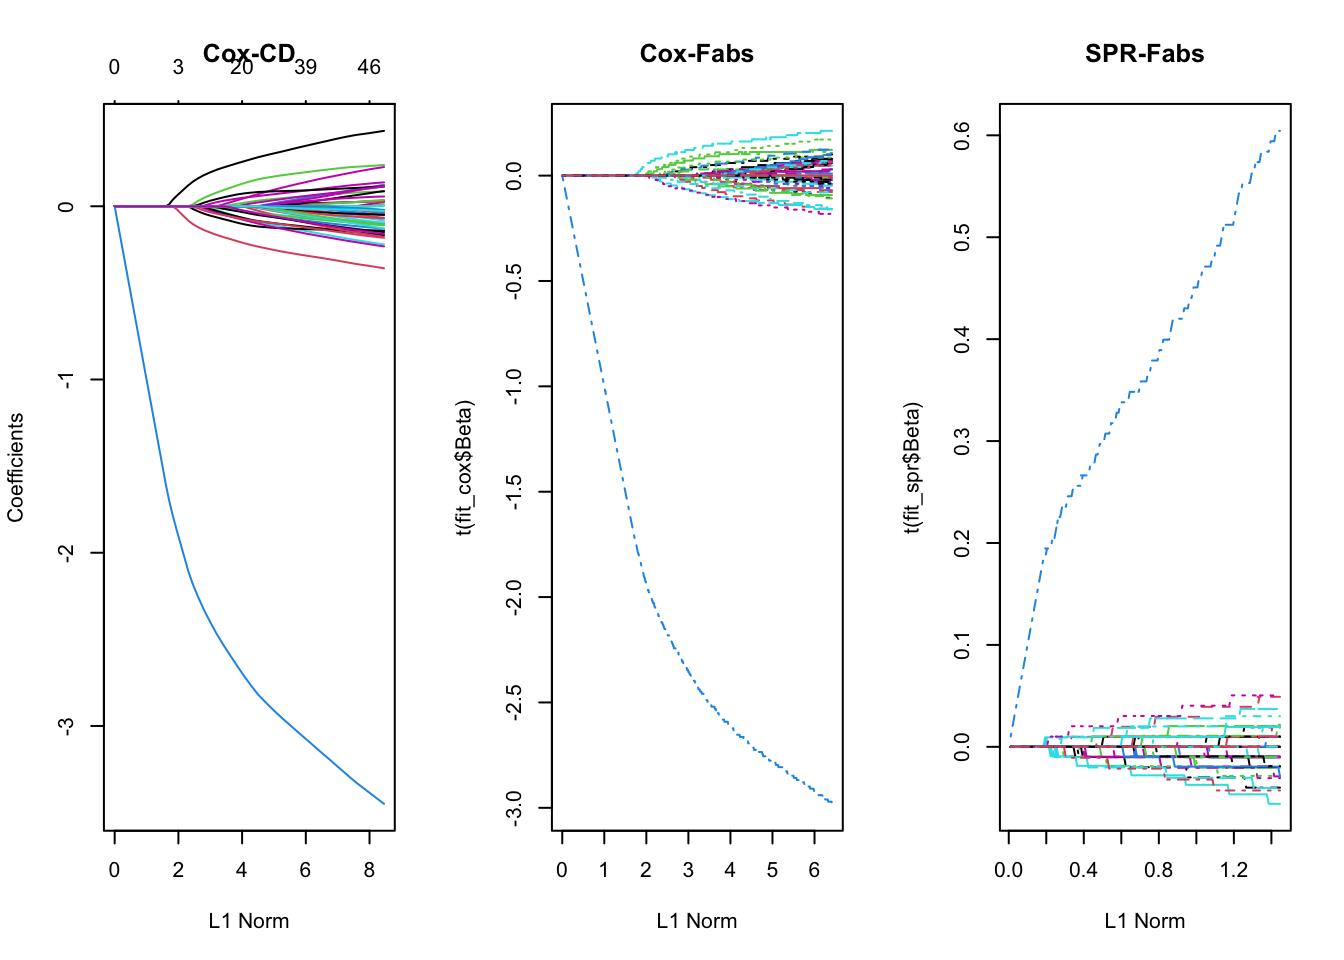
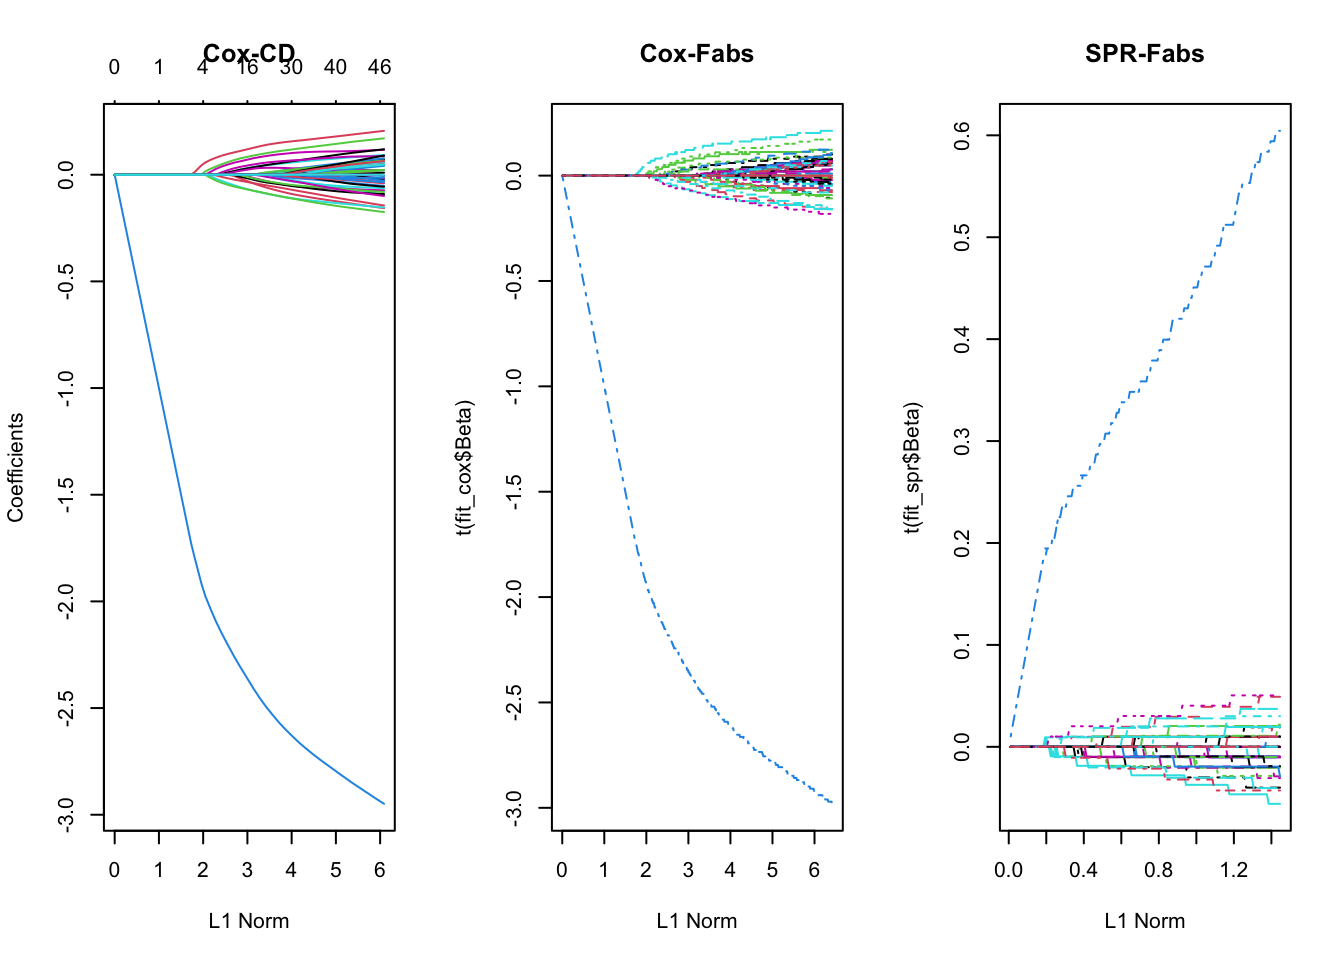
update post

diff --git a/post/2019-03-15-fabs/index.html b/post/2019-03-15-fabs/index.html
@@ -102,7 +102,7 @@
                             
                                 <li><a href="/publication/">Publication</a></li>
                             
-                                <li><a href="/post/">Posts</a></li>
+                                <li><a href="/post/">Post</a></li>
                             
                         </ul>
                     
@@ -181,7 +181,7 @@ library(glmnet)
 ## Loading required package: Matrix
 ## Loaded glmnet 4.0-2
 library(survival)
-fit &lt;- glmnet(x, Surv(y, 1-status), family = &quot;cox&quot;)
+fit &lt;- glmnet(x, Surv(y, status), family = &quot;cox&quot;)
 
 # Fabs
 group &lt;- 1:p

diff --git a/tags/css/index.html b/tags/css/index.html
@@ -105,7 +105,7 @@
                             
                                 <li><a href="/publication/">Publication</a></li>
                             
-                                <li><a href="/post/">Posts</a></li>
+                                <li><a href="/post/">Post</a></li>
                             
                         </ul>
                     
@@ -141,7 +141,7 @@
     
       
 
-    <h4><a href="/project/project2/">grpFabs</a></h4>
+    <h4><a href="https://github.com/XingjieShi/#/">grpFabs</a></h4>
     <h5>Consectetur adipiscing elit</h5>
     
 <a href="/tags/html"><kbd class="item-tag">html</kbd></a>

diff --git a/tags/html/index.html b/tags/html/index.html
@@ -105,7 +105,7 @@
                             
                                 <li><a href="/publication/">Publication</a></li>
                             
-                                <li><a href="/post/">Posts</a></li>
+                                <li><a href="/post/">Post</a></li>
                             
                         </ul>
                     
@@ -141,7 +141,7 @@
     
       
 
-    <h4><a href="/project/project2/">grpFabs</a></h4>
+    <h4><a href="https://github.com/XingjieShi/#/">grpFabs</a></h4>
     <h5>Consectetur adipiscing elit</h5>
     
 <a href="/tags/html"><kbd class="item-tag">html</kbd></a>

diff --git a/404.html b/404.html
@@ -102,7 +102,7 @@
                             
                                 <li><a href="/publication/">Publication</a></li>
                             
-                                <li><a href="/post/">Posts</a></li>
+                                <li><a href="/post/">Post</a></li>
                             
                         </ul>
                     

diff --git a/about/index.html b/about/index.html
@@ -102,7 +102,7 @@
                             
                                 <li><a href="/publication/">Publication</a></li>
                             
-                                <li><a href="/post/">Posts</a></li>
+                                <li><a href="/post/">Post</a></li>
                             
                         </ul>
                     

diff --git a/categories/index.html b/categories/index.html
@@ -105,7 +105,7 @@
                             
                                 <li><a href="/publication/">Publication</a></li>
                             
-                                <li><a href="/post/">Posts</a></li>
+                                <li><a href="/post/">Post</a></li>
                             
                         </ul>
                     

diff --git a/categories/r/index.html b/categories/r/index.html
@@ -105,7 +105,7 @@
                             
                                 <li><a href="/publication/">Publication</a></li>
                             
-                                <li><a href="/post/">Posts</a></li>
+                                <li><a href="/post/">Post</a></li>
                             
                         </ul>
                     

diff --git a/index.html b/index.html
@@ -105,7 +105,7 @@
                             
                                 <li><a href="/publication/">Publication</a></li>
                             
-                                <li><a href="/post/">Posts</a></li>
+                                <li><a href="/post/">Post</a></li>
                             
                         </ul>
                     

diff --git a/post/2020-03-07-vimco/index.html b/post/2020-03-07-vimco/index.html
@@ -102,7 +102,7 @@
                             
                                 <li><a href="/publication/">Publication</a></li>
                             
-                                <li><a href="/post/">Posts</a></li>
+                                <li><a href="/post/">Post</a></li>
                             
                         </ul>
                     

diff --git a/post/index.html b/post/index.html
@@ -105,7 +105,7 @@
                             
                                 <li><a href="/publication/">Publication</a></li>
                             
-                                <li><a href="/post/">Posts</a></li>
+                                <li><a href="/post/">Post</a></li>
                             
                         </ul>
                     

diff --git a/project/index.html b/project/index.html
@@ -105,7 +105,7 @@
                             
                                 <li><a href="/publication/">Publication</a></li>
                             
-                                <li><a href="/post/">Posts</a></li>
+                                <li><a href="/post/">Post</a></li>
                             
                         </ul>
                     

diff --git a/project/project1/index.html b/project/project1/index.html
@@ -102,7 +102,7 @@
                             
                                 <li><a href="/publication/">Publication</a></li>
                             
-                                <li><a href="/post/">Posts</a></li>
+                                <li><a href="/post/">Post</a></li>
                             
                         </ul>
                     
